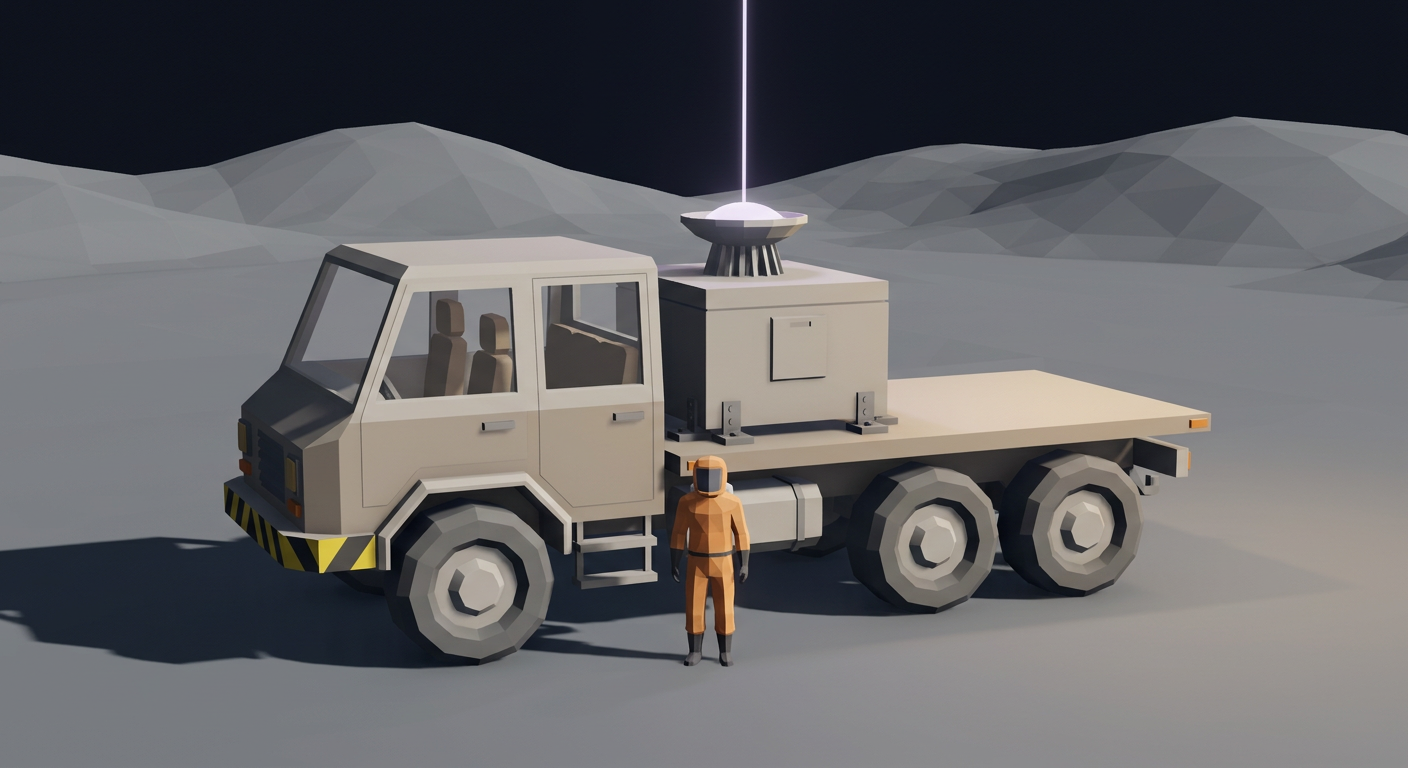
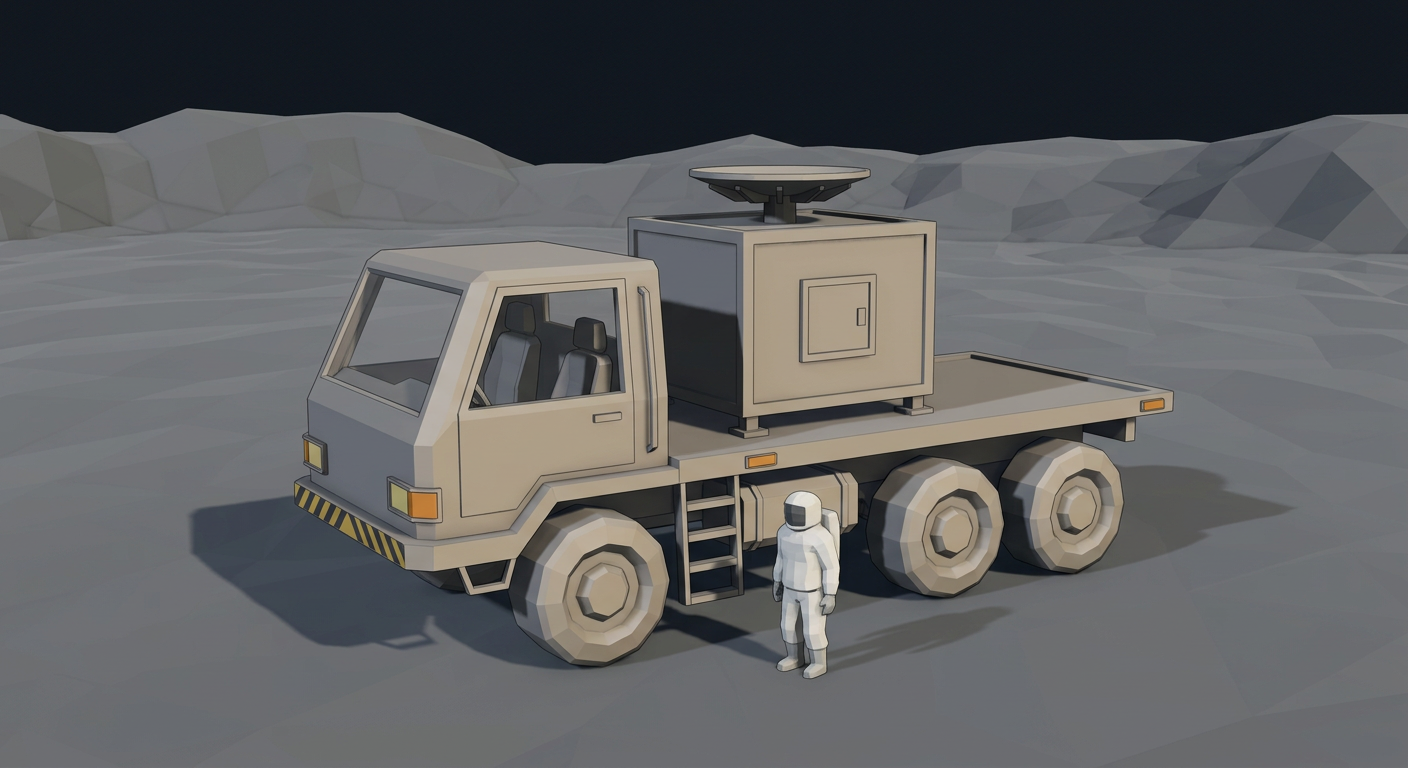
setmix sheet 19 rev 5: hauler S1 redrawn to the revised S6 (rectangular bin, small finned link dish, no beam); no beam on any sheet 19 piece; old S1 renders to rejected/ rev1 and rev2; prompt record; README note; sheet and contact sheet rebuilt

diff --git a/docs/concept/setmix/README.md b/docs/concept/setmix/README.md
@@ -913,3 +913,5 @@ in 04/05).
 **Review notes:** no chimneys, stacks or smokestacks; no smoke; the fabricator's print is the only glow on the station; every piece is grounded (wheels, tracks, pads and bolts touch the ground); cables run in low ribbed floor covers; no text baked into any kept image; the scientist (1.8 m) stands beside each piece for scale. The hauler S6 emitter matches the S1 mushroom cap, slightly larger in the S6.
 
 **Revision 4 (lead-engineer review):** the fabricator S6 now shows the half-printed scout resting on the bed, wheels and lower chassis solid, only the roll cage wireframe. The hauler S6 emitter is the small sheet 13 link dish, with no beam or glow. Old renders are in `panels/19/rejected/` (`19-fabricator-s6-rev1`, `19-hauler-s6-rev3`). Open point: the hauler S1 still draws its thin beam.
+
+**Revision 5:** the hauler S1 is redrawn to the revised S6 design: a rectangular storage bin with the small finned link dish, and no beam. No piece on sheet 19 now has a beam. Old S1 renders are in `panels/19/rejected/` (`19-hauler-s1-rev1`, `19-hauler-s1-rev2`).
